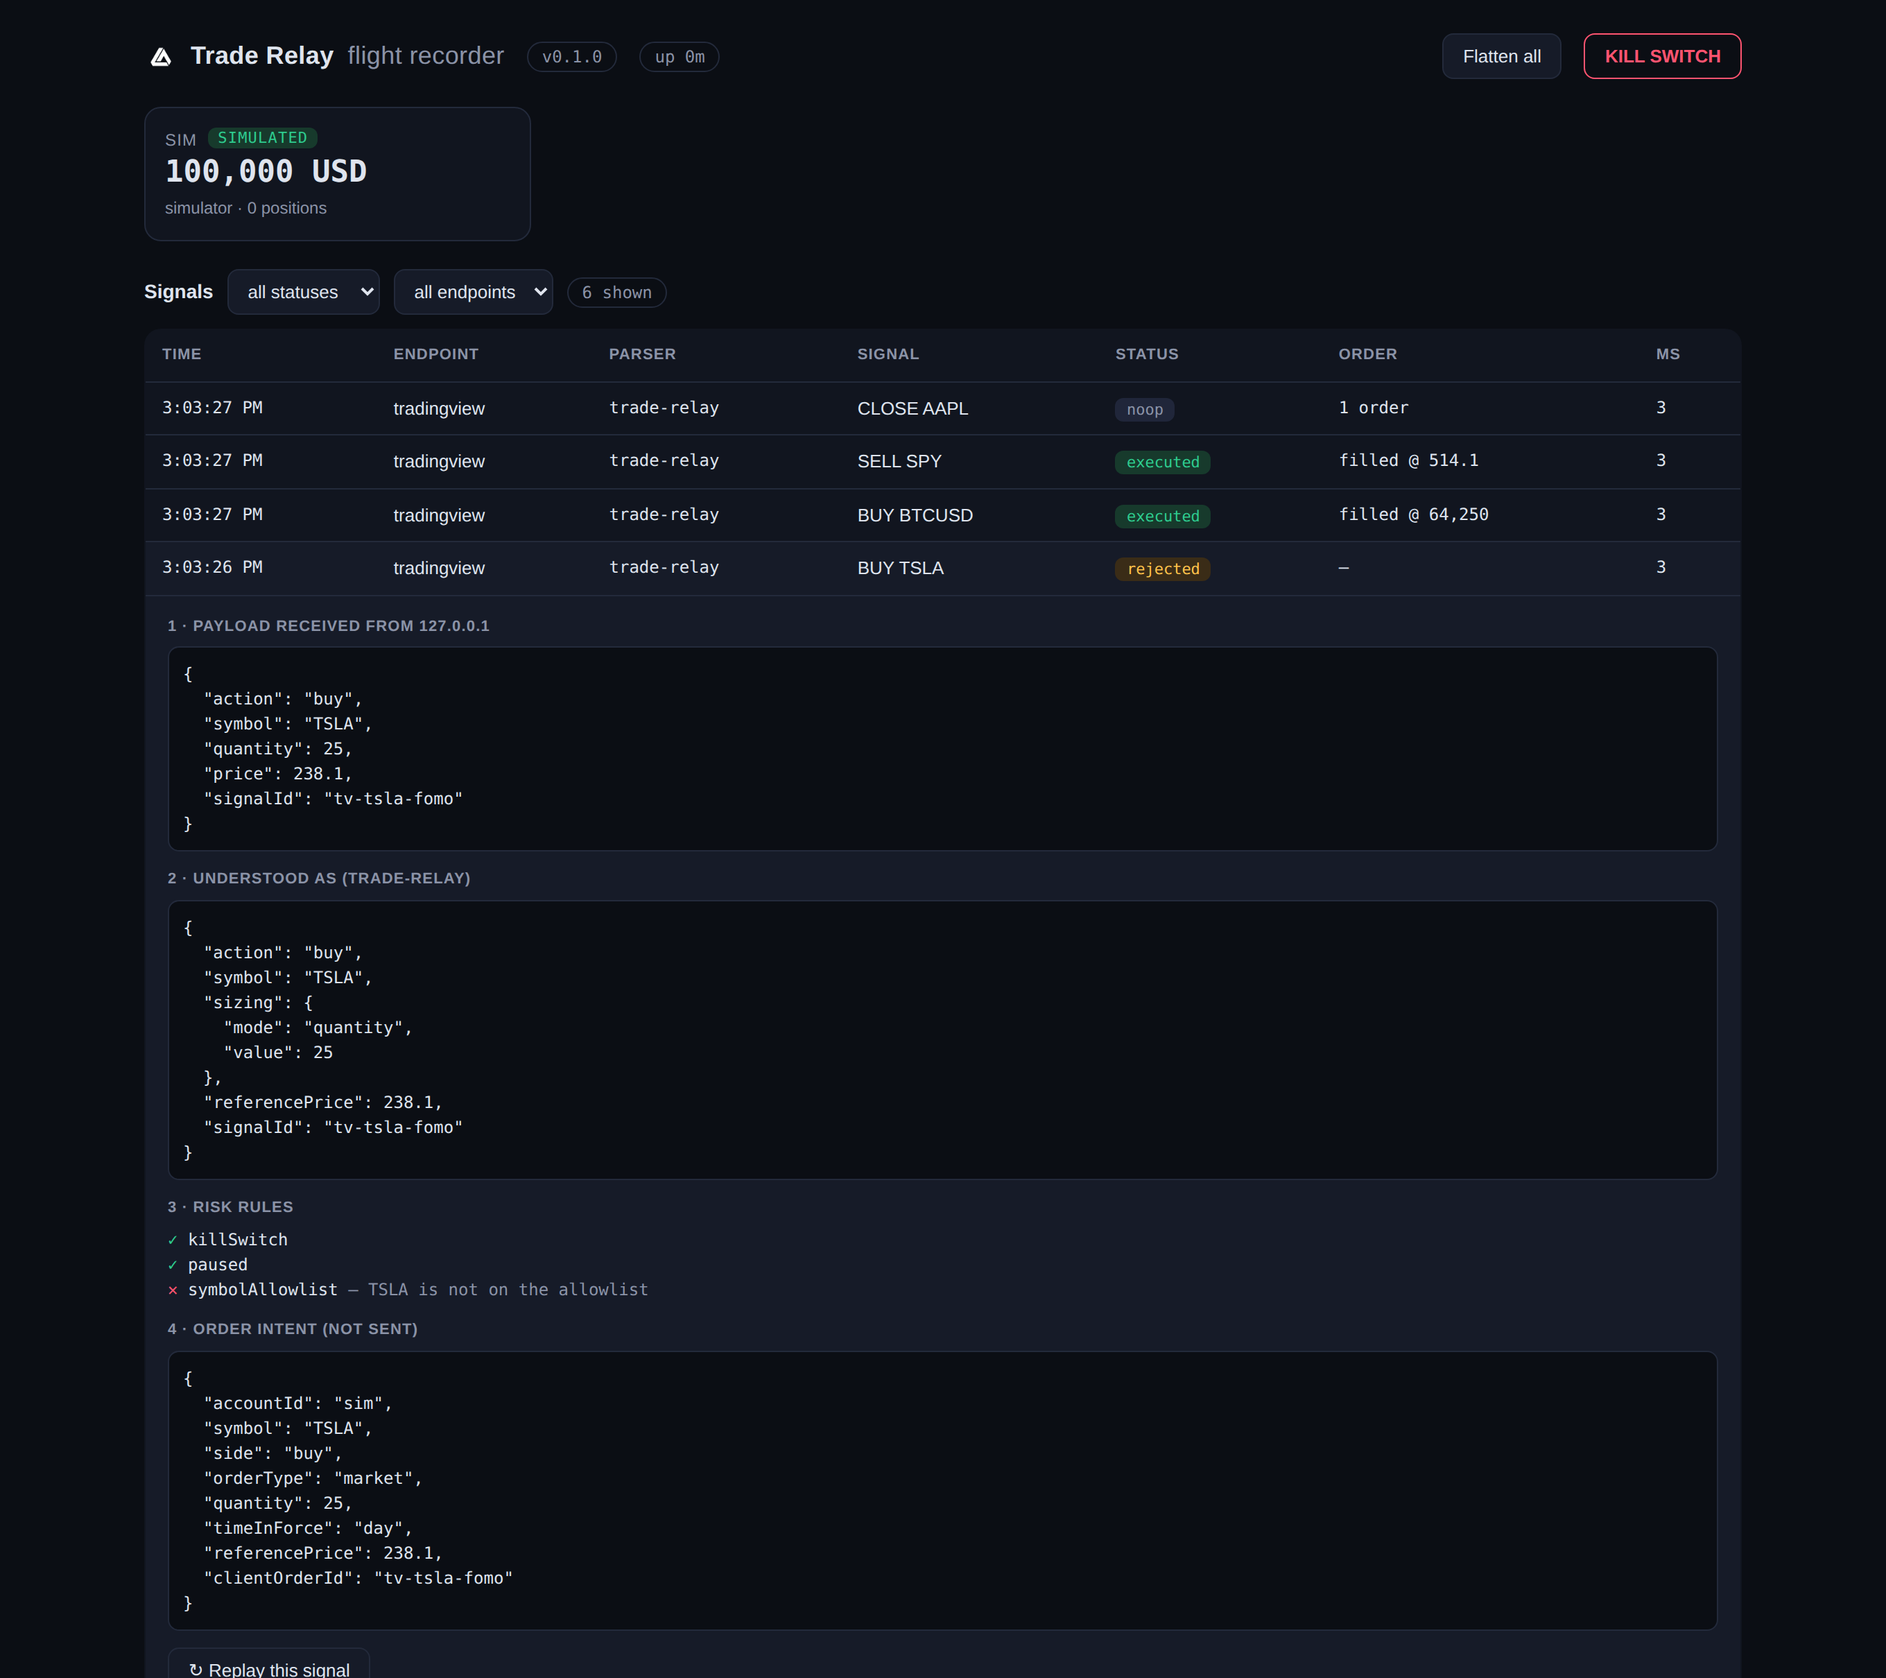
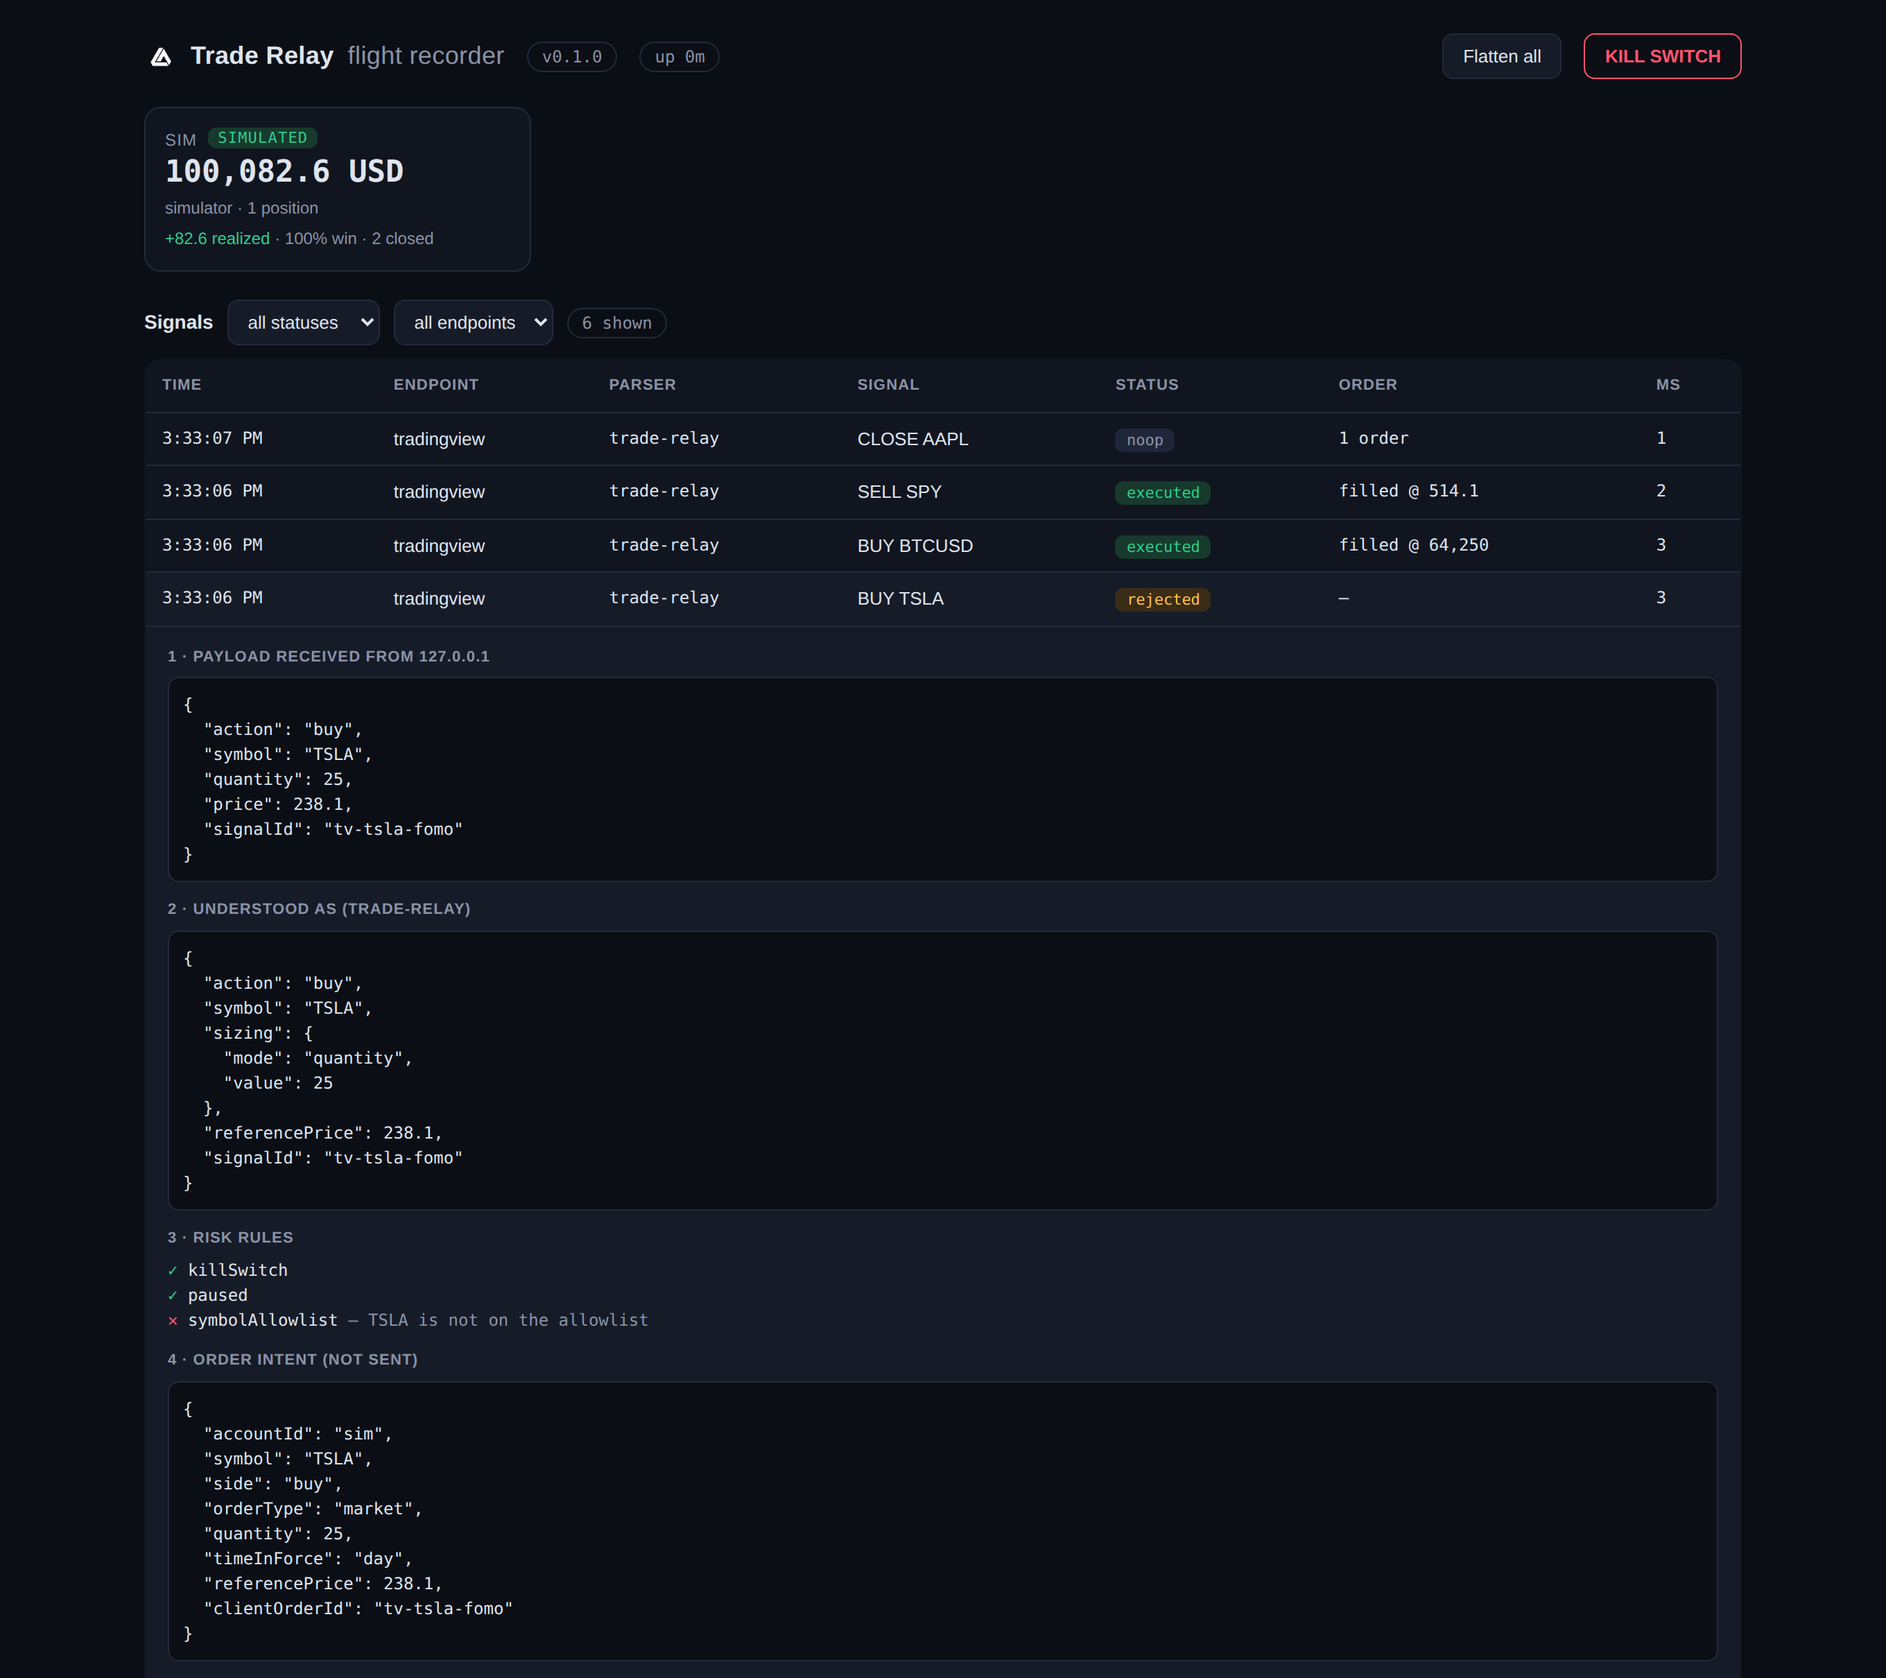
Account stats: realized PnL and win rate via broker-sdk's stats engine

diff --git a/src/dashboard.ts b/src/dashboard.ts
@@ -32,6 +32,7 @@ button:hover{border-color:var(--dim)}
 .card .k{color:var(--dim);font-size:12px;text-transform:uppercase;letter-spacing:.6px}
 .card .v{font:600 22px var(--mono);margin-top:2px}
 .card .s{color:var(--dim);font-size:12px;margin-top:4px}
+.pnl-up{color:var(--green)}.pnl-down{color:var(--red)}
 .env{font:11px var(--mono);padding:1px 7px;border-radius:6px;margin-left:8px;vertical-align:2px}
 .env.paper,.env.simulated,.env.sandbox{background:#173a2c;color:var(--green)}
 .env.live{background:#3a1720;color:var(--red)}
@@ -127,9 +128,9 @@ async function tick(){
     if(fe.options.length===1)for(const e of st.endpoints){const o=document.createElement("option");o.textContent=e.id;fe.appendChild(o)}
     const accs=await api("/api/accounts");
     $("#accounts").innerHTML=accs.map(a=>{
-      if(a.mode==="watch"){const eq=(a.accounts||[]).reduce((s,x)=>s+(x.equity||0),0);return card(a.id+" (watch)",a.error?"—":fmt(eq),a.error||a.broker)}
+      if(a.mode==="watch"){const eq=(a.accounts||[]).reduce((s,x)=>s+(x.equity||0),0);return card(a.id+" (watch)",a.error?"—":fmt(eq),a.error||a.broker,null,a.stats)}
       const pos=(a.positions||[]).length;
-      return card(a.id,a.error?"—":fmt(a.equity)+" "+(a.currency||""),(a.error||a.broker+" · "+pos+" position"+(pos===1?"":"s")),a.environment)
+      return card(a.id,a.error?"—":fmt(a.equity)+" "+(a.currency||""),(a.error||a.broker+" · "+pos+" position"+(pos===1?"":"s")),a.environment,a.stats)
     }).join("");
     const q=new URLSearchParams({limit:"60"});
     if($("#fstatus").value)q.set("status",$("#fstatus").value);
@@ -141,7 +142,14 @@ async function tick(){
     for(const s of sigs)if(open.has(s.id)){const el=document.getElementById("story-"+s.id);if(el)el.classList.add("open")}
   }catch(e){/* token box already shown on 401 */}
 }
-function card(k,v,s,env){return '<div class="card"><div class="k">'+esc(k)+(env?'<span class="env '+esc(env)+'">'+esc(env)+"</span>":"")+'</div><div class="v">'+esc(v)+'</div><div class="s">'+esc(s)+"</div></div>"}
+function card(k,v,s,env,st){
+  let stat="";
+  if(st&&st.closedTrades){
+    const up=st.realizedPnl>=0;
+    stat='<div class="s"><span class="'+(up?"pnl-up":"pnl-down")+'">'+(up?"+":"")+fmt(st.realizedPnl)+' realized</span>'+(st.winRate!=null?' · '+Math.round(st.winRate*100)+'% win':'')+' · '+st.closedTrades+' closed</div>';
+  }
+  return '<div class="card"><div class="k">'+esc(k)+(env?'<span class="env '+esc(env)+'">'+esc(env)+"</span>":"")+'</div><div class="v">'+esc(v)+'</div><div class="s">'+esc(s)+"</div>"+stat+"</div>"
+}
 function sigLabel(s){if(!s.signal)return "—";const g=s.signal;return (g.action||"?").toUpperCase()+(g.symbol?" "+g.symbol:"")}
 function ordLabel(s){const o=s.order;if(!o)return s.orders&&s.orders.length?s.orders.length+" order"+(s.orders.length===1?"":"s"):"—";return o.status+(o.filledAvgPrice?" @ "+fmt(o.filledAvgPrice):"")}
 function row(s){

diff --git a/src/server.ts b/src/server.ts
@@ -1,6 +1,8 @@
 import { createHmac, timingSafeEqual } from "node:crypto";
 import { createServer as createHttpServer, type IncomingMessage, type Server, type ServerResponse } from "node:http";
 import type { BrokerConnection } from "@luxalgo/broker-sdk";
+import { computeTradeStats } from "@luxalgo/broker-sdk/stats";
+import { tradeStatsForPort } from "./account-stats.js";
 import type { RelayConfig } from "./config.js";
 import type { Engine } from "./engine.js";
 import type { StorageDriver } from "./storage/driver.js";
@@ -169,8 +171,20 @@ export const createRelayServer = (deps: ServerDeps): Server => {
       const accounts: unknown[] = [];
       for (const port of engine.ports.values()) {
         try {
-          const [equity, positions] = await Promise.all([port.getEquity(), port.getPositions()]);
-          accounts.push({ id: port.id, broker: port.broker, environment: port.environment, mode: "execute", ...equity, positions });
+          const [equity, positions, stats] = await Promise.all([
+            port.getEquity(),
+            port.getPositions(),
+            tradeStatsForPort(port),
+          ]);
+          accounts.push({
+            id: port.id,
+            broker: port.broker,
+            environment: port.environment,
+            mode: "execute",
+            ...equity,
+            positions,
+            ...(stats ? { stats } : {}),
+          });
         } catch (error) {
           accounts.push({ id: port.id, broker: port.broker, environment: port.environment, mode: "execute", error: (error as Error).message });
         }
@@ -178,7 +192,16 @@ export const createRelayServer = (deps: ServerDeps): Server => {
       for (const [id, reader] of watchReaders) {
         try {
           const snapshot = await reader.fetchSnapshot();
-          accounts.push({ id, broker: reader.broker, mode: "watch", accounts: snapshot.accounts });
+          const stats = computeTradeStats(snapshot.accounts.flatMap((account) => account.trades));
+          accounts.push({
+            id,
+            broker: reader.broker,
+            mode: "watch",
+            accounts: snapshot.accounts,
+            ...(stats && stats.closedTrades > 0
+              ? { stats: { closedTrades: stats.closedTrades, wins: stats.wins, losses: stats.losses, winRate: stats.winRate, realizedPnl: Number(stats.realizedPnl.toFixed(2)) } }
+              : {}),
+          });
         } catch (error) {
           accounts.push({ id, broker: reader.broker, mode: "watch", error: (error as Error).message });
         }

diff --git a/tests/account-stats.test.ts b/tests/account-stats.test.ts
@@ -1,0 +1,49 @@
+import { describe, expect, it } from "vitest";
+import { createSimulator } from "../src/brokers/simulator.js";
+import { tradeStatsForPort } from "../src/account-stats.js";
+
+const sim = () => createSimulator({ id: "sim", startingEquity: 100_000, defaultFillPrice: 100, currency: "USD" });
+
+describe("account trade stats (broker-sdk stats engine)", () => {
+  it("returns null with no closed round trips", async () => {
+    const port = sim();
+    expect(await tradeStatsForPort(port)).toBeNull();
+
+    await port.placeOrder({ symbol: "AAPL", side: "buy", type: "market", quantity: 10, timeInForce: "day", clientOrderId: "open", referencePrice: 100 });
+    expect(await tradeStatsForPort(port)).toBeNull(); // open position only
+  });
+
+  it("computes realized PnL and win rate from simulator fills", async () => {
+    const port = sim();
+    await port.placeOrder({ symbol: "AAPL", side: "buy", type: "market", quantity: 10, timeInForce: "day", clientOrderId: "b1", referencePrice: 100 });
+    await port.placeOrder({ symbol: "AAPL", side: "sell", type: "market", quantity: 10, timeInForce: "day", clientOrderId: "s1", referencePrice: 110 });
+    await port.placeOrder({ symbol: "SPY", side: "buy", type: "market", quantity: 2, timeInForce: "day", clientOrderId: "b2", referencePrice: 500 });
+    await port.placeOrder({ symbol: "SPY", side: "sell", type: "market", quantity: 2, timeInForce: "day", clientOrderId: "s2", referencePrice: 490 });
+
+    const stats = await tradeStatsForPort(port);
+    expect(stats).not.toBeNull();
+    expect(stats!.closedTrades).toBe(2);
+    expect(stats!.wins).toBe(1);
+    expect(stats!.losses).toBe(1);
+    expect(stats!.winRate).toBeCloseTo(0.5);
+    expect(stats!.realizedPnl).toBeCloseTo(80); // +100 on AAPL, -20 on SPY
+  });
+
+  it("includes bracket-leg exits in the history", async () => {
+    const port = sim();
+    await port.placeOrder({
+      symbol: "AAPL", side: "buy", type: "market", quantity: 10, timeInForce: "day",
+      clientOrderId: "entry", referencePrice: 100, bracket: { takeProfitPrice: 110 },
+    });
+    port.updatePrice("AAPL", 111); // TP leg fills
+    const stats = await tradeStatsForPort(port);
+    expect(stats!.closedTrades).toBe(1);
+    expect(stats!.realizedPnl).toBeCloseTo(111 * 10 - 100 * 10);
+  });
+
+  it("is null for ports without fill history", async () => {
+    const bare = { ...sim() };
+    delete (bare as { getTrades?: unknown }).getTrades;
+    expect(await tradeStatsForPort(bare)).toBeNull();
+  });
+});

diff --git a/src/mcp.ts b/src/mcp.ts
@@ -1,6 +1,7 @@
 import { McpServer } from "@modelcontextprotocol/sdk/server/mcp.js";
 import { z } from "zod";
 import type { BrokerConnection } from "@luxalgo/broker-sdk";
+import { tradeStatsForPort } from "./account-stats.js";
 import type { RelayConfig } from "./config.js";
 import type { Engine } from "./engine.js";
 import type { StorageDriver } from "./storage/driver.js";
@@ -66,8 +67,12 @@ export const createMcpServer = (deps: McpDeps): McpServer => {
       const accounts: unknown[] = [];
       for (const port of engine.ports.values()) {
         try {
-          const [equity, positions] = await Promise.all([port.getEquity(), port.getPositions()]);
-          accounts.push({ id: port.id, broker: port.broker, environment: port.environment, ...equity, positions });
+          const [equity, positions, stats] = await Promise.all([
+            port.getEquity(),
+            port.getPositions(),
+            tradeStatsForPort(port),
+          ]);
+          accounts.push({ id: port.id, broker: port.broker, environment: port.environment, ...equity, positions, ...(stats ? { stats } : {}) });
         } catch (error) {
           accounts.push({ id: port.id, broker: port.broker, error: (error as Error).message });
         }

diff --git a/src/account-stats.ts b/src/account-stats.ts
@@ -1,0 +1,34 @@
+import { computeTradeStats } from "@luxalgo/broker-sdk/stats";
+import type { BrokerPort } from "./brokers/port.js";
+
+/*
+  Per-account trade stats, computed by broker-sdk's stats engine (FIFO
+  round-trip matching). Derived data only: recomputed on demand from fill
+  history, never stored. Accounts whose port can't provide fills (or whose
+  reads fail) simply have no stats, never fabricated ones.
+*/
+
+export type AccountTradeStats = {
+  closedTrades: number;
+  wins: number;
+  losses: number;
+  winRate: number | null;
+  realizedPnl: number;
+};
+
+export const tradeStatsForPort = async (port: BrokerPort): Promise<AccountTradeStats | null> => {
+  if (!port.getTrades) return null;
+  try {
+    const stats = computeTradeStats(await port.getTrades());
+    if (!stats || stats.closedTrades === 0) return null;
+    return {
+      closedTrades: stats.closedTrades,
+      wins: stats.wins,
+      losses: stats.losses,
+      winRate: stats.winRate,
+      realizedPnl: Number(stats.realizedPnl.toFixed(2)),
+    };
+  } catch {
+    return null;
+  }
+};

diff --git a/tests/server.test.ts b/tests/server.test.ts
@@ -127,6 +127,16 @@ describe("dashboard API", () => {
     expect((await fetch(`${base}/health`)).status).toBe(200);
   });
 
+  it("account stats appear after a round trip", async () => {
+    await post(`/webhook/${TOKEN}`, { action: "buy", symbol: "AAPL", quantity: 2, price: 150, signalId: "stats-open" });
+    await post(`/webhook/${TOKEN}`, { action: "close", symbol: "AAPL", price: 160, signalId: "stats-close" });
+    const accounts = (await (await authed("/api/accounts")).json()) as { id: string; stats?: { closedTrades: number; realizedPnl: number } }[];
+    const sim = accounts.find((account) => account.id === "sim");
+    expect(sim?.stats).toBeDefined();
+    expect(sim!.stats!.closedTrades).toBeGreaterThanOrEqual(1);
+    expect(sim!.stats!.realizedPnl).toBeGreaterThan(0);
+  });
+
   it("serves the dashboard shell", async () => {
     const response = await fetch(`${base}/`);
     expect(response.status).toBe(200);

diff --git a/src/brokers/port.ts b/src/brokers/port.ts
@@ -1,4 +1,4 @@
-import type { BracketSpec, OrderKind, PortOrder, PortPosition, TimeInForce } from "../types.js";
+import type { BracketSpec, OrderKind, PortOrder, PortPosition, PortTrade, TimeInForce } from "../types.js";
 
 /*
   BrokerPort is the one seam between the relay and the outside world. All
@@ -50,6 +50,11 @@ export type BrokerPort = {
   cancelAllOrders: () => Promise<number>;
   getPositions: () => Promise<PortPosition[]>;
   getEquity: () => Promise<PortEquity>;
+  /**
+   * Fill history for the stats engine, where the broker (or simulator) can
+   * provide it. Absent means stats are simply unavailable for the account.
+   */
+  getTrades?: () => Promise<PortTrade[]>;
   /**
    * Price advance hook. The simulator uses it to trigger resting orders
    * (stops, limits, bracket legs) and returns the orders it filled; real

diff --git a/src/brokers/simulator.ts b/src/brokers/simulator.ts
@@ -286,6 +286,17 @@ export const createSimulator = (options: SimulatorOptions): SimulatorPort => {
       return { equity: Number(value.toFixed(2)), currency: options.currency, cash: Number(cash.toFixed(2)) };
     },
 
+    getTrades: async () =>
+      [...orders.values()]
+        .filter((order) => order.status === "filled" && order.filledAvgPrice !== undefined && order.filledQuantity > 0)
+        .map((order) => ({
+          symbol: order.symbol,
+          side: order.side,
+          quantity: order.filledQuantity,
+          price: order.filledAvgPrice!,
+          ...(order.submittedAt ? { executedAt: order.submittedAt } : {}),
+        })),
+
     updatePrice: (symbol, price) => {
       prices.set(symbol, price);
       return sweep(symbol, price);

diff --git a/src/brokers/sdk-port.ts b/src/brokers/sdk-port.ts
@@ -154,5 +154,9 @@ export const createSdkPort = (options: SdkPortOptions): BrokerPort => {
         ...(current.cash !== undefined ? { cash: current.cash } : {}),
       };
     },
+
+    // The read layer already returns normalized fills; the stats engine
+    // consumes them directly. Only where reads work (not Tradier sandbox).
+    ...(options.broker === "alpaca" ? { getTrades: async () => (await account()).trades } : {}),
   };
 };

diff --git a/src/types.ts b/src/types.ts
@@ -122,6 +122,16 @@ export type PortPosition = {
   averageEntryPrice?: number;
 };
 
+/** A fill, in the shape broker-sdk's stats engine consumes. */
+export type PortTrade = {
+  symbol: string;
+  side: "buy" | "sell";
+  quantity: number;
+  price: number;
+  fee?: number;
+  executedAt?: string;
+};
+
 /** The complete story of one signal, as the flight recorder keeps it. */
 export type SignalRecord = {
   id: string;

diff --git a/src/index.ts b/src/index.ts
@@ -26,4 +26,6 @@ export { createRelayServer } from "./server.js";
 export type { ServerDeps } from "./server.js";
 export { createMcpServer } from "./mcp.js";
 export type { McpDeps } from "./mcp.js";
+export { tradeStatsForPort } from "./account-stats.js";
+export type { AccountTradeStats } from "./account-stats.js";
 export { VERSION } from "./version.js";

diff --git a/CHANGELOG.md b/CHANGELOG.md
@@ -13,6 +13,7 @@ Initial public release.
 - Broker connectivity via @luxalgo/broker-sdk: Alpaca (paper, and live behind the SDK's acknowledgement sentence), Tradier sandbox, and a built-in simulator with the full order vocabulary (stops, stop-limits, trailing stops, OCO brackets)
 - Watch-only portfolio accounts over the broker-sdk read layer
 - Flight recorder on node:sqlite with a local dashboard and one-click replay
+- Per-account trade stats (realized PnL, win rate, closed round trips) on the dashboard cards, REST API, and MCP, computed by broker-sdk's stats engine
 - MCP server for AI agents: read-only by default, trading gated behind mcp.allowTrading, all agent orders pass the same risk rails
 - Outbound notifications: Discord, Slack, Telegram, generic webhook
 - CLI (init, start, mcp, simulate), Docker image, docker compose, Railway template
